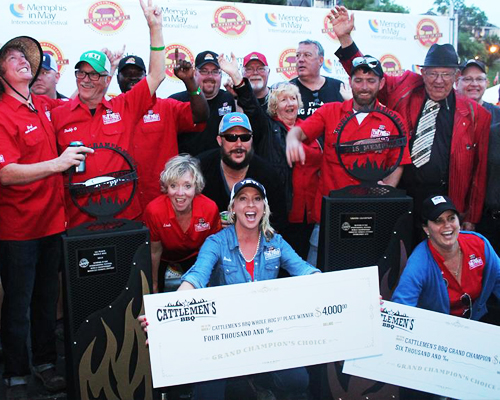
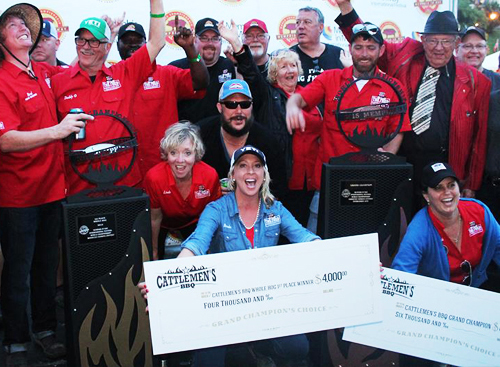
updates

diff --git a/index.html b/index.html
@@ -40,7 +40,7 @@
 				</div>
 				<div class="article">
 					<h3>Three Days of BBQ under the Cattlemen’s<sup class="r-ball">®</sup> tent</h3>
-					<p>Memphis in May is the biggest BBQ event of the year and the best parts happen inside the Cattlemen’s<sup class="r-ball">®</sup> BBQ tent! The French’s Food Company Foodservice Culinary Director, Chef Trip Kadey serves three amazing BBQ meals that showcase farm-to-fork, traditional, and global BBQ applications for Cattlemen’s<sup class="r-ball">®</sup> sauces featuring over 50 recipes. The Cattlemen’s<sup class="r-ball">®</sup> crew then embarks on an annual Hog Crawl visiting 3 past champions to learn their tips and tricks for using Cattlemen’s<sup class="r-ball">®</sup> to create winning BBQ.</p>
+					<p>The Cattlemen’s<sup class="r-ball">®</sup> hospitality tent was at the center of the BBQ buzz hosting more than 80 foodservice professionals.  French’s Food Foodservice Culinary Director, Chef Trip Kadey treated our guests to three nights of outstanding BBQ dinners showcasing farm-to-fork, traditional, and global BBQ applications all featuring Cattlemen’s<sup class="r-ball">®</sup> BBQ Sauces. But the BBQ fest didn’t stop there. The Cattlemen’s<sup class="r-ball">®</sup> crew and guests participated in a Hog Crawl, going behind the scenes to see how Champion Teams make Cattlemen’s<sup class="r-ball">®</sup>  the secret to their success.  Seen here, a peak inside the smoker of past winner, “The World’s Most Interesting Team.”</p>
 				</div>
 			</div>
 			<div class="article-container">

diff --git a/main.css b/main.css
@@ -147,7 +147,7 @@ p {
 #right-column .article-container .thumbnail-image.grand_champion {
   background: url("../img/grand_champion.jpg") no-repeat;
   background-size: cover;
-  background-position: bottom center;
+  background-position: top center;
 }
 #right-column .article-container .thumbnail-image.epic_bbq {
   background: url("../img/epic_bbq.jpg") no-repeat;
